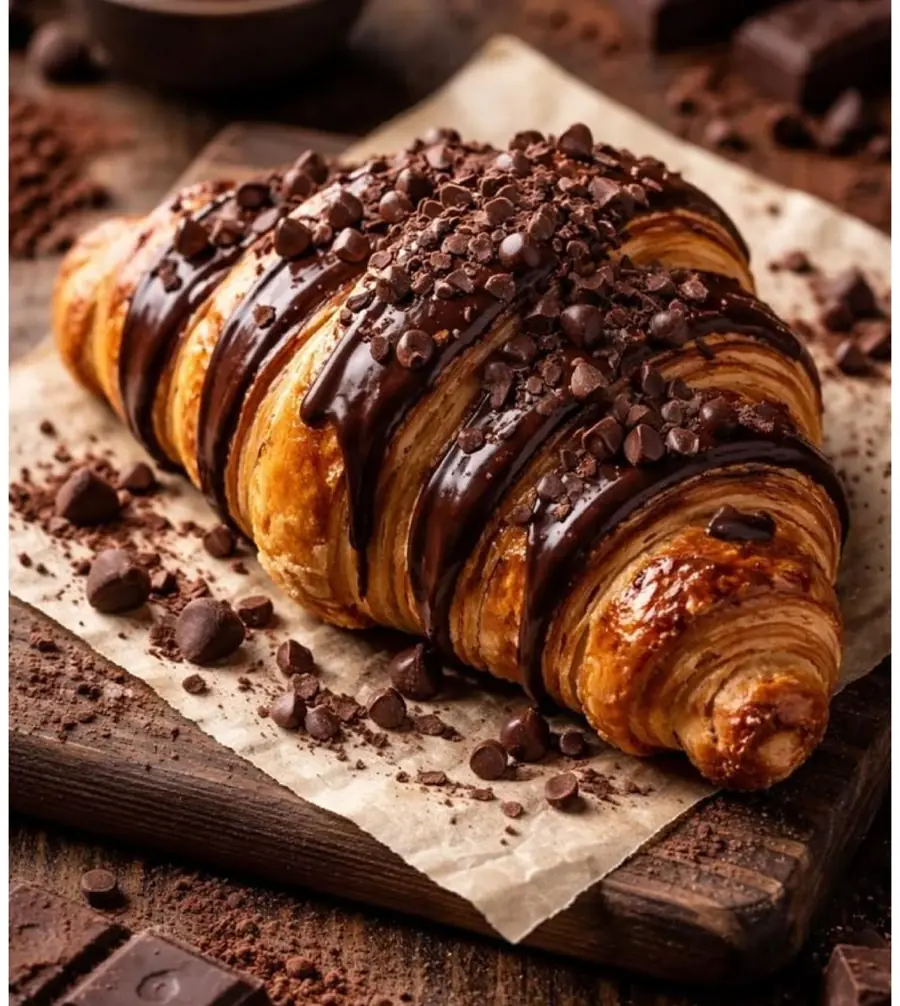
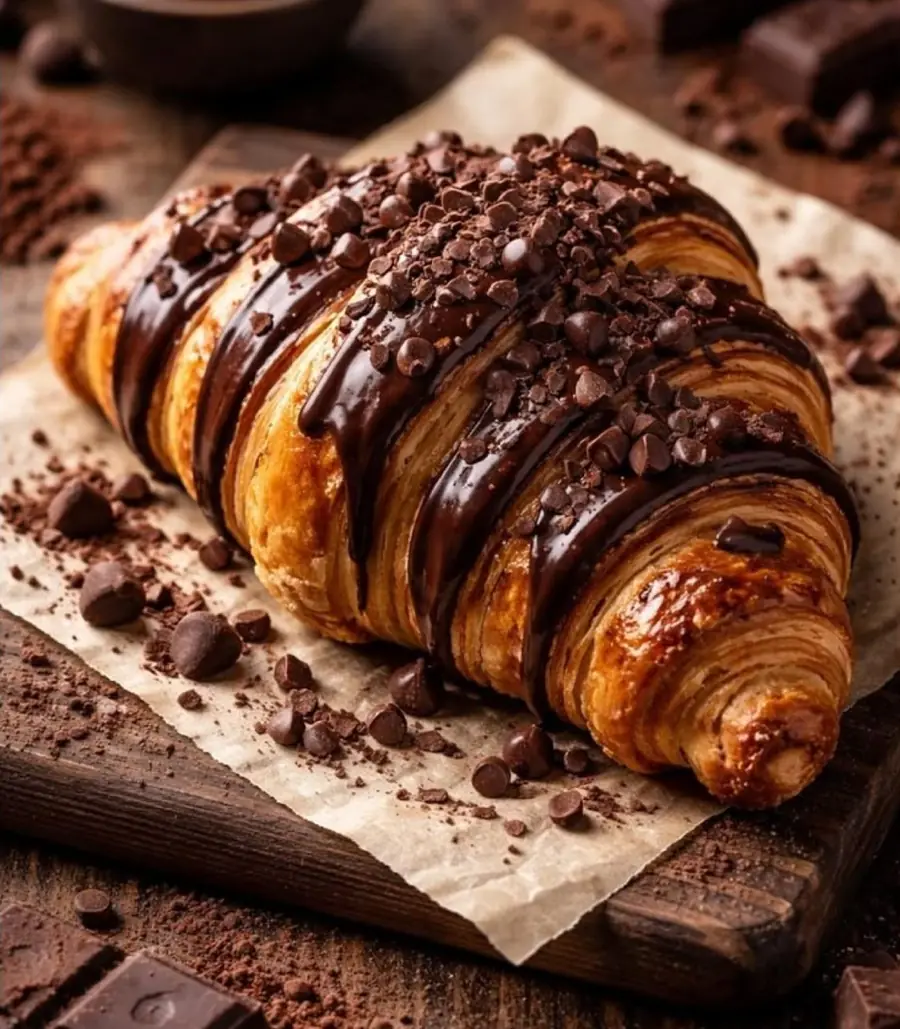
added images

diff --git a/src/data/images.ts b/src/data/images.ts
@@ -55,11 +55,11 @@ export const AIRLINE_PHOTO = food(
 
 /** "Moments from our tables" gallery. */
 export const GALLERY_PHOTOS: Photo[] = [
-  food("bakery-display", 773, 1200, "A bakery counter of cakes and cookies", "كاونتر مخبز بالكعك والكوكيز"),
-  food("viennoiserie-rack", 900, 1026, "Viennoiserie cooling on a rack", "معجنات تبرد على الرف"),
+  food("bakery-display", 801, 1200, "A bakery counter of cakes and cookies", "كاونتر مخبز بالكعك والكوكيز"),
+  food("viennoiserie-rack", 900, 1048, "Viennoiserie cooling on a rack", "معجنات تبرد على الرف"),
   food("pistachio-croissants", 900, 1039, "Pistachio croissants", "كرواسون بالفستق"),
   food("proofing-rack", 773, 1200, "Croissants proofing on the rack", "كرواسون يتخمّر على الرف"),
-  food("chocolate-croissant", 900, 1006, "A chocolate croissant", "كرواسون بالشوكولاتة"),
+  food("chocolate-croissant", 900, 1029, "A chocolate croissant", "كرواسون بالشوكولاتة"),
   food("babka-swirl", 837, 1200, "A sugared babka swirl", "بابكا ملفوفة بالسكر"),
   food("piping-eclairs", 805, 1200, "Cream piped onto pastries", "كريمة تُزيّن المعجنات"),
   food("glazing-croissants", 880, 640, "Croissants brushed with egg wash", "كرواسون يُدهن قبل الخَبز"),

diff --git a/src/app/globals.css b/src/app/globals.css
@@ -144,7 +144,7 @@ html.is-booting-locale body {
     line-height: 1.25;
   }
 
-  /* Uppercase label with a leading hairline. */
+  /* Uppercase label. */
   .eyebrow {
     display: inline-flex;
     align-items: center;
@@ -154,14 +154,6 @@ html.is-booting-locale body {
     line-height: 1;
     letter-spacing: 0.2em;
     text-transform: uppercase;
-  }
-
-  .eyebrow::before {
-    content: "";
-    width: 2.1rem;
-    height: 1px;
-    background: currentColor;
-    opacity: 0.55;
   }
 
   :root:lang(ar) .eyebrow {
